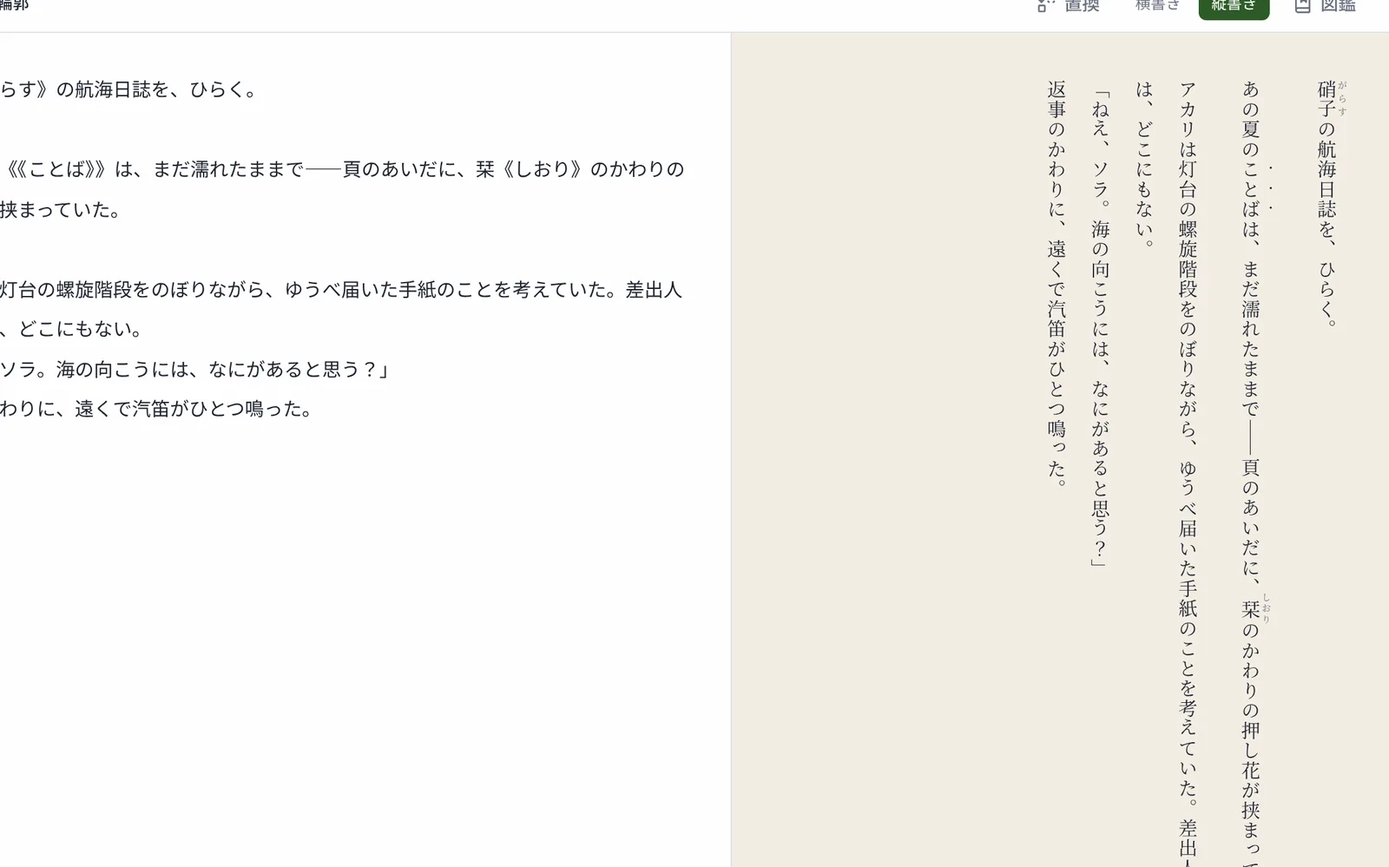
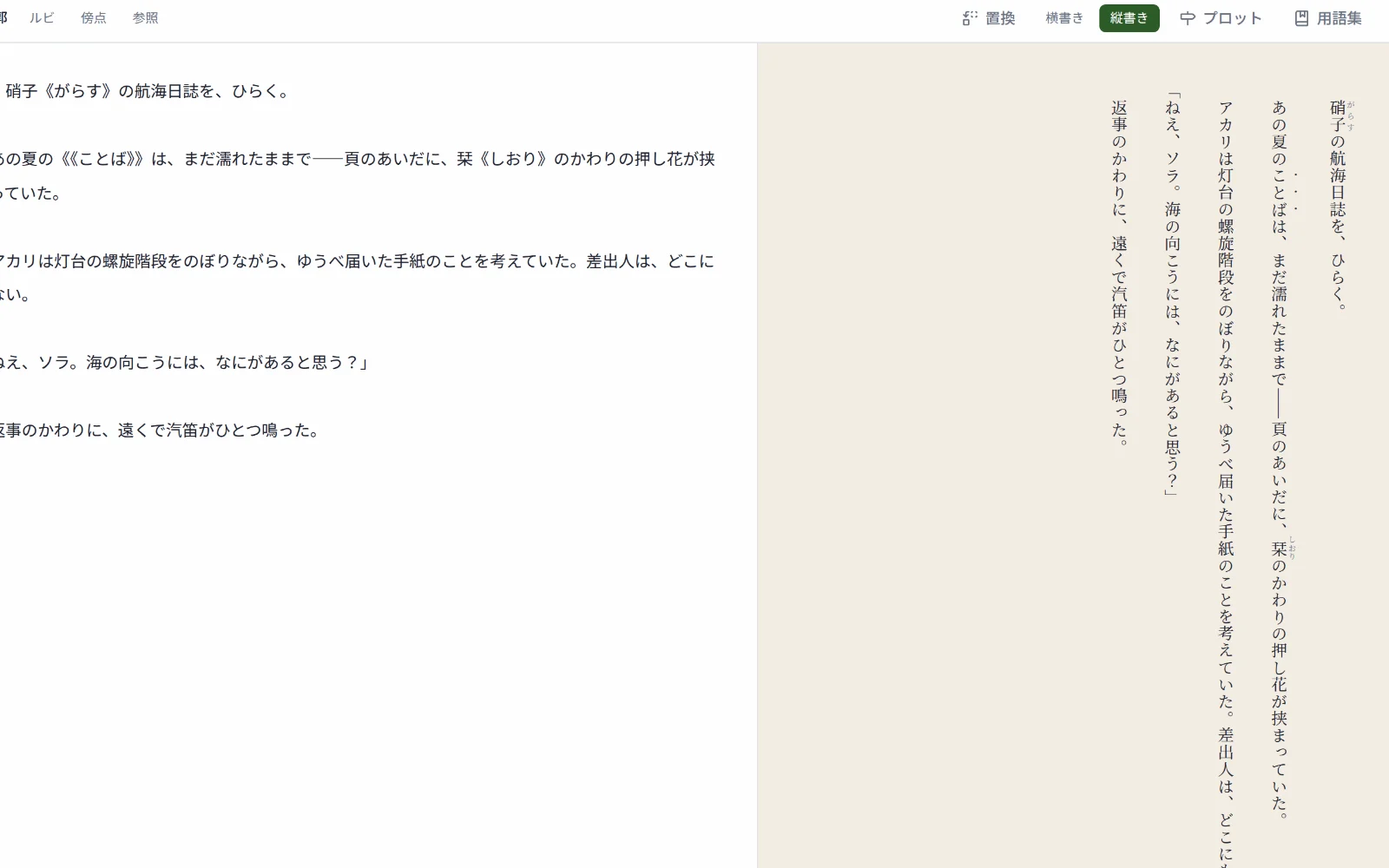
feat(plan,lp): 構想の道具を無料アカウント登録で解禁し、LP をそれに合わせる
プロット・世界観設定・アウトライン・相関図・マインドマップは純ローカルで完結し、
サーバ資源を使わない。課金の線を引く理由がないので無料アカウント登録で解禁し、
有料の線は「保全」——端末間の自動同期・クラウドバックアップ／復元・MCP——に引き直す。
未サインイン（guest）で出さないのは、作品が端末にしか無い状態で構想まで積み上げると
失ったときの損害が大きいため。

- Root: canUseStructure を canUseCreativeTools（free または member）で決める
- 料金画面・ヘルプ FAQ から「構造ツールは有料」の記述を落とす
- ローカル書き出し／復元がプロット（ビート・秘密・世界観設定）まで運ぶことを
  backup-service のテストで固定（実装は既に対象に含んでいた）
- LP: 第三章「組み立てる」を新設してプロットを紹介し、以降の章を繰り下げ。
  構造ツールの塊をクラウド（有料）節から外し、残る三本を画像なしの三枚組へ。
  プラン表は構想の道具を2行に分けて○＋「要・無料登録」に。
- LP のスクリーンショットを撮り直し（用語集の「図鑑」表記が残っていた）、
  プロット画面の shots/plot.webp を追加

Claude-Session: https://claude.ai/code/session_01Turq2UBLGYSXR6z6NT2Tq9

diff --git a/public/lp/index.html b/public/lp/index.html
@@ -279,7 +279,7 @@
         <div style="flex:none;writing-mode:vertical-rl;font-family:var(--font-display);font-size:24px;letter-spacing:0.22em;line-height:1.6;color:var(--forest-800)"><span style="color:var(--wheat-500);font-size:12px">◆</span>　書いたそばから、本の姿。</div>
       </div>
       <div data-media style="background:var(--surface-card);border:1px solid var(--border-subtle);border-radius:12px;padding:10px;box-shadow:0 2px 12px rgba(31,36,48,0.05)">
-        <div style="width:100%;aspect-ratio:16/10"><img class="slot-img" src="shots/editor.webp" width="1600" height="999" loading="lazy" decoding="async" alt="執筆画面：左にいつもの横書き原稿、右にルビ・傍点まで組まれた縦書きプレビュー"></div>
+        <div style="width:100%;aspect-ratio:16/10"><img class="slot-img" src="shots/editor.webp" width="1600" height="1000" loading="lazy" decoding="async" alt="執筆画面：左にいつもの横書き原稿、右にルビ・傍点まで組まれた縦書きプレビュー"></div>
       </div>
     </div>
 
@@ -299,16 +299,38 @@
         </div>
       </div>
       <div data-media style="order:1;background:var(--surface-card);border:1px solid var(--border-subtle);border-radius:12px;padding:10px;box-shadow:0 2px 12px rgba(31,36,48,0.05)">
-        <div style="width:100%;aspect-ratio:16/10"><img class="slot-img" src="shots/glossary.webp" width="1600" height="1000" loading="lazy" decoding="async" alt="用語集画面：人物・場所・道具をカテゴリタブとカードで整理"></div>
+        <div style="width:100%;aspect-ratio:16/10"><img class="slot-img" src="shots/glossary.webp" width="1600" height="1000" loading="lazy" decoding="async" alt="用語集画面：人物・場所・アイテムをカテゴリタブとカードで整理し、作品ごとの事典にする"></div>
       </div>
     </div>
 
-    <!-- 第三章　続ける -->
+    <!-- 第三章　組み立てる -->
     <div data-reveal class="feature-row">
       <div data-text style="display:flex;gap:32px">
+        <div style="display:flex;flex-direction:column;gap:20px">
+          <div style="display:flex;align-items:center;gap:14px;font-size:13px;letter-spacing:0.3em;color:var(--wheat-700)">第三章　組み立てる<span style="width:56px;height:1px;background:var(--wheat-300)"></span></div>
+          <h3 style="margin:0;font-family:var(--font-display);font-weight:600;font-size:28px;letter-spacing:0.06em;color:var(--text-heading)">話の骨は、書く前に組める。</h3>
+          <p style="margin:0;font-size:15px;line-height:2;letter-spacing:0.03em;color:var(--text-body);text-wrap:pretty">物語の出来事を「ビート」のカードにして、幕へ並べる。型から始めれば、幕とガイド付きのビートが最初から用意されています。仕込んだ伏線は回収と対にして、作品の決めごとは「世界観設定」へ。読者に見せる用語集とは別の、作者だけの控えです。</p>
+          <div style="display:flex;flex-direction:column;gap:10px">
+            <div style="display:flex;gap:10px;font-size:14px;line-height:1.7;color:var(--text-body)"><span style="color:var(--forest-600);font-weight:700">✓</span><span>三幕構成・起承転結・序破急などの型から始められる（白紙も可）</span></div>
+            <div style="display:flex;gap:10px;font-size:14px;line-height:1.7;color:var(--text-body)"><span style="color:var(--forest-600);font-weight:700">✓</span><span>伏線と秘密は、仕込みと回収を対にして残せる</span></div>
+            <div style="display:flex;gap:10px;font-size:14px;line-height:1.7;color:var(--text-body)"><span style="color:var(--forest-600);font-weight:700">✓</span><span>世界観設定は作者だけの控え——読者に公開されることはありません</span></div>
+            <div style="display:flex;gap:10px;font-size:14px;line-height:1.7;color:var(--text-body)"><span style="color:var(--forest-600);font-weight:700">✓</span><span>アウトライン・相関図・マインドマップで、流れと関係を図にできる</span></div>
+          </div>
+          <p style="margin:0;font-size:12.5px;line-height:1.9;letter-spacing:0.02em;color:var(--text-muted)">構想の道具は、無料のアカウント登録でお使いいただけます（登録だけで課金はありません）。</p>
+        </div>
+        <div style="flex:none;writing-mode:vertical-rl;font-family:var(--font-display);font-size:24px;letter-spacing:0.22em;line-height:1.6;color:var(--forest-800)"><span style="color:var(--wheat-500);font-size:12px">◆</span>　まず、骨を組む。</div>
+      </div>
+      <div data-media style="background:var(--surface-card);border:1px solid var(--border-subtle);border-radius:12px;padding:10px;box-shadow:0 2px 12px rgba(31,36,48,0.05)">
+        <div style="width:100%;aspect-ratio:16/10"><img class="slot-img" src="shots/plot.webp" width="1600" height="1000" loading="lazy" decoding="async" alt="プロット画面：幕ごとに並んだビートのカードと、選んだビートの詳細パネル。上部に世界観設定・ビートシート・グリッド・伏線と秘密のタブ"></div>
+      </div>
+    </div>
+
+    <!-- 第四章　続ける -->
+    <div data-reveal class="feature-row">
+      <div data-text style="order:2;display:flex;gap:32px">
         <div style="flex:none;writing-mode:vertical-rl;font-family:var(--font-display);font-size:24px;letter-spacing:0.22em;line-height:1.6;color:var(--forest-800)"><span style="color:var(--wheat-500);font-size:12px">◆</span>　書いた日々が、緑になる。</div>
         <div style="display:flex;flex-direction:column;gap:20px">
-          <div style="display:flex;align-items:center;gap:14px;font-size:13px;letter-spacing:0.3em;color:var(--wheat-700)">第三章　続ける<span style="width:56px;height:1px;background:var(--wheat-300)"></span></div>
+          <div style="display:flex;align-items:center;gap:14px;font-size:13px;letter-spacing:0.3em;color:var(--wheat-700)">第四章　続ける<span style="width:56px;height:1px;background:var(--wheat-300)"></span></div>
           <h3 style="margin:0;font-family:var(--font-display);font-weight:600;font-size:28px;letter-spacing:0.06em;color:var(--text-heading)">続けることを、道具が支える。</h3>
           <p style="margin:0;font-size:15px;line-height:2;letter-spacing:0.03em;color:var(--text-body);text-wrap:pretty">書いた日はカレンダーが緑に色づいて、続けるほど草が生えるように一年が茂っていきます。原稿は自動保存で、保存のたびに版履歴が残るから、昨日の自分にいつでも戻れます。続けることが、いちばんの執筆術だから。</p>
           <div style="display:flex;flex-direction:column;gap:10px">
@@ -317,16 +339,16 @@
           </div>
         </div>
       </div>
-      <div data-media style="background:var(--surface-card);border:1px solid var(--border-subtle);border-radius:12px;padding:10px;box-shadow:0 2px 12px rgba(31,36,48,0.05)">
+      <div data-media style="order:1;background:var(--surface-card);border:1px solid var(--border-subtle);border-radius:12px;padding:10px;box-shadow:0 2px 12px rgba(31,36,48,0.05)">
         <div style="width:100%;aspect-ratio:16/10"><img class="slot-img" src="shots/activity.webp" width="1600" height="1000" loading="lazy" decoding="async" alt="執筆の記録：年間ヒートマップと連続日数・累計文字数"></div>
       </div>
     </div>
 
-    <!-- 第四章　届ける -->
+    <!-- 第五章　届ける -->
     <div data-reveal class="feature-row">
-      <div data-text style="order:2;display:flex;gap:32px">
+      <div data-text style="display:flex;gap:32px">
         <div style="display:flex;flex-direction:column;gap:20px">
-          <div style="display:flex;align-items:center;gap:14px;font-size:13px;letter-spacing:0.3em;color:var(--wheat-700)">第四章　届ける<span style="width:56px;height:1px;background:var(--wheat-300)"></span></div>
+          <div style="display:flex;align-items:center;gap:14px;font-size:13px;letter-spacing:0.3em;color:var(--wheat-700)">第五章　届ける<span style="width:56px;height:1px;background:var(--wheat-300)"></span></div>
           <h3 style="margin:0;font-family:var(--font-display);font-weight:600;font-size:28px;letter-spacing:0.06em;color:var(--text-heading)">投稿サイトにも、電子書籍にも。</h3>
           <p style="margin:0;font-size:15px;line-height:2;letter-spacing:0.03em;color:var(--text-body);text-wrap:pretty">書き上がったら、そのまま世界へ。縦書き EPUB にも、「小説家になろう」「カクヨム」の記法にも、ルビ・傍点ごと自動変換して書き出せます。貼り付けるだけで、今日の分から投稿できます。</p>
           <div style="display:flex;flex-direction:column;gap:10px">
@@ -337,7 +359,7 @@
         </div>
         <div style="flex:none;writing-mode:vertical-rl;font-family:var(--font-display);font-size:24px;letter-spacing:0.22em;line-height:1.6;color:var(--forest-800)"><span style="color:var(--wheat-500);font-size:12px">◆</span>　物語を、世界へ。</div>
       </div>
-      <div data-media style="order:1;background:var(--surface-card);border:1px solid var(--border-subtle);border-radius:12px;padding:10px;box-shadow:0 2px 12px rgba(31,36,48,0.05)">
+      <div data-media style="background:var(--surface-card);border:1px solid var(--border-subtle);border-radius:12px;padding:10px;box-shadow:0 2px 12px rgba(31,36,48,0.05)">
         <div style="width:100%;aspect-ratio:16/10"><img class="slot-img" src="shots/export.webp" width="1568" height="980" loading="lazy" decoding="async" alt="書き出しダイアログ：EPUB・Web投稿形式・ZIP・AIに渡すから選べる"></div>
       </div>
     </div>
@@ -369,30 +391,20 @@
       <h2 style="margin:0;font-family:var(--font-display);font-weight:600;font-size:clamp(30px,3vw,40px);letter-spacing:0.08em;color:var(--text-heading)">もっと深く使うなら、クラウド。</h2>
       <p style="margin:0;font-size:15px;letter-spacing:0.06em;color:var(--text-muted)">ここから先は、有料のクラウド版の機能です。月額 ¥500、年額 ¥4,800（月あたり400円・約2か月分お得）。初回は 30 日間の無料トライアル付き——期間中に解約すれば料金はかかりません。</p>
     </div>
-    <div data-reveal data-reveal-delay="120" class="feature-row" style="gap:56px">
-      <div data-media style="background:var(--surface-card);border:1px solid var(--border-subtle);border-radius:12px;padding:10px;box-shadow:0 2px 12px rgba(31,36,48,0.05)">
-        <div style="width:100%;aspect-ratio:16/10"><img class="slot-img" src="shots/chart.webp" width="1600" height="1000" loading="lazy" decoding="async" alt="相関図画面：用語集のキャラをノードにして、関係に名前をつけて線で結ぶ"></div>
+    <div data-reveal data-reveal-delay="120" class="cards-3">
+      <div style="display:flex;flex-direction:column;gap:12px;background:var(--surface-card);border:1px solid var(--border-subtle);border-radius:12px;padding:28px 26px;box-shadow:0 2px 12px rgba(31,36,48,0.05)">
+        <div style="display:flex;align-items:baseline;gap:10px"><span style="color:var(--wheat-500);font-size:11px">◆</span><h3 style="margin:0;font-family:var(--font-display);font-weight:600;font-size:20px;letter-spacing:0.06em;color:var(--text-heading)">端末間の自動同期</h3></div>
+        <p style="margin:0;font-size:14px;line-height:2;letter-spacing:0.03em;color:var(--text-body);text-wrap:pretty">同じアカウントでログインすれば、原稿・用語集・プロット・構想メモが端末のあいだで自動的にそろいます。書き終えて別の端末を開けば、そこに続きがある。書き出しも取り込みも、もういりません。</p>
       </div>
-      <div data-text style="display:flex;flex-direction:column;gap:28px">
-        <div style="display:flex;flex-direction:column;gap:10px">
-          <div style="display:flex;align-items:center;gap:10px"><span style="color:var(--wheat-500);font-size:11px">◆</span><h3 style="margin:0;font-family:var(--font-display);font-weight:600;font-size:21px;letter-spacing:0.06em;color:var(--text-heading)">アウトライン・相関図・マインドマップ</h3></div>
-          <p style="margin:0;font-size:14px;line-height:2;letter-spacing:0.03em;color:var(--text-body);text-wrap:pretty">人物の関係、話の流れ、思いつきのメモ。頭の中で混ざりがちなものを、図にして見えるようにする道具です。書きながら整理するための補助として。どれも本文とつながっています。</p>
-        </div>
-        <div style="display:flex;flex-direction:column;gap:10px">
-          <div style="display:flex;align-items:center;gap:10px"><span style="color:var(--wheat-500);font-size:11px">◆</span><h3 style="margin:0;font-family:var(--font-display);font-weight:600;font-size:21px;letter-spacing:0.06em;color:var(--text-heading)">端末間の自動同期</h3></div>
-          <p style="margin:0;font-size:14px;line-height:2;letter-spacing:0.03em;color:var(--text-body);text-wrap:pretty">同じアカウントでログインすれば、原稿・用語集・構想メモが端末のあいだで自動的にそろいます。書き終えて別の端末を開けば、そこに続きがある。書き出しも取り込みも、もういりません。</p>
-        </div>
-        <div style="display:flex;flex-direction:column;gap:10px">
-          <div style="display:flex;align-items:center;gap:10px"><span style="color:var(--wheat-500);font-size:11px">◆</span><h3 style="margin:0;font-family:var(--font-display);font-weight:600;font-size:21px;letter-spacing:0.06em;color:var(--text-heading)">クラウドバックアップ＆復元</h3></div>
-          <p style="margin:0;font-size:14px;line-height:2;letter-spacing:0.03em;color:var(--text-body);text-wrap:pretty">全データを暗号化してクラウドに自動保存。端末が壊れても、新しい端末で復元して、続きから書けます。</p>
-        </div>
-        <div style="display:flex;flex-direction:column;gap:10px">
-          <div style="display:flex;align-items:center;gap:10px"><span style="color:var(--wheat-500);font-size:11px">◆</span><h3 style="margin:0;font-family:var(--font-display);font-weight:600;font-size:21px;letter-spacing:0.06em;color:var(--text-heading)">AI と読み書き（MCP 連携）</h3></div>
-          <p style="margin:0;font-size:14px;line-height:2;letter-spacing:0.03em;color:var(--text-body);text-wrap:pretty">AI チャットに原稿を読ませて、誤字脱字の校正や、最初の一読者としての感想を。AI が直した原稿を、そのまま書き戻すこともできます。動作確認済みの AI は現在 Claude と Genspark のみです。</p>
-        </div>
+      <div style="display:flex;flex-direction:column;gap:12px;background:var(--surface-card);border:1px solid var(--border-subtle);border-radius:12px;padding:28px 26px;box-shadow:0 2px 12px rgba(31,36,48,0.05)">
+        <div style="display:flex;align-items:baseline;gap:10px"><span style="color:var(--wheat-500);font-size:11px">◆</span><h3 style="margin:0;font-family:var(--font-display);font-weight:600;font-size:20px;letter-spacing:0.06em;color:var(--text-heading)">クラウドバックアップ＆復元</h3></div>
+        <p style="margin:0;font-size:14px;line-height:2;letter-spacing:0.03em;color:var(--text-body);text-wrap:pretty">全データを暗号化してクラウドに自動保存。端末が壊れても、新しい端末で復元して、続きから書けます。</p>
+      </div>
+      <div style="display:flex;flex-direction:column;gap:12px;background:var(--surface-card);border:1px solid var(--border-subtle);border-radius:12px;padding:28px 26px;box-shadow:0 2px 12px rgba(31,36,48,0.05)">
+        <div style="display:flex;align-items:baseline;gap:10px"><span style="color:var(--wheat-500);font-size:11px">◆</span><h3 style="margin:0;font-family:var(--font-display);font-weight:600;font-size:20px;letter-spacing:0.06em;color:var(--text-heading)">AI と読み書き（MCP 連携）</h3></div>
+        <p style="margin:0;font-size:14px;line-height:2;letter-spacing:0.03em;color:var(--text-body);text-wrap:pretty">AI チャットに原稿を読ませて、誤字脱字の校正や、最初の一読者としての感想を。AI が直した原稿を、そのまま書き戻すこともできます。世界観設定を先に読ませてあるので、作品の決めごとを踏まえた返事が返ります。動作確認済みの AI は現在 Claude と Genspark のみです。</p>
       </div>
     </div>
-  </div>
 </section>
 
 <!-- ================= 机とポケット（PCで書き、スマホで触れる） ================= -->
@@ -453,7 +465,7 @@
     <div data-reveal style="text-align:center;display:flex;flex-direction:column;gap:16px">
       <div style="font-family:var(--font-mono);font-size:12px;letter-spacing:0.32em;color:var(--wheat-600)">PRICING</div>
       <h2 style="margin:0;font-family:var(--font-display);font-weight:600;font-size:clamp(30px,3vw,40px);letter-spacing:0.08em;color:var(--text-heading)">料金プラン</h2>
-      <p style="margin:0;font-size:15px;letter-spacing:0.06em;color:var(--text-muted)">基本の執筆機能はフリーのまま。クラウドは、必要になってからで十分です。</p>
+      <p style="margin:0;font-size:15px;letter-spacing:0.06em;color:var(--text-muted)">書く道具も、構想の道具もフリーのまま。クラウドは、必要になってからで十分です。</p>
     </div>
     <div data-reveal data-reveal-delay="120" class="price-scroll" style="width:100%;max-width:880px;background:var(--surface-card);border:1px solid var(--border-subtle);border-radius:12px;box-shadow:0 2px 12px rgba(31,36,48,0.04)">
       <div class="price-inner">
@@ -468,7 +480,8 @@
         <div class="price-row"><div style="font-size:14px;color:var(--text-body)">小説家になろう・カクヨム・EPUB 書き出し</div><div style="text-align:center;color:var(--forest-600);font-size:17px">○</div><div style="text-align:center;color:var(--forest-600);font-size:17px">○</div></div>
         <div class="price-row"><div style="font-size:14px;color:var(--text-body)">執筆の記録・一括置換</div><div style="text-align:center;color:var(--forest-600);font-size:17px">○</div><div style="text-align:center;color:var(--forest-600);font-size:17px">○</div></div>
         <div class="price-row"><div style="font-size:14px;color:var(--text-body)">ファイルへのバックアップ／取り込み</div><div style="text-align:center;color:var(--forest-600);font-size:17px">○</div><div style="text-align:center;color:var(--forest-600);font-size:17px">○</div></div>
-        <div class="price-row"><div style="font-size:14px;color:var(--text-body)">アウトライン・相関図・マインドマップ</div><div style="text-align:center;color:var(--text-faint);font-size:15px">×</div><div style="text-align:center;color:var(--forest-600);font-size:17px">○</div></div>
+        <div class="price-row"><div style="font-size:14px;color:var(--text-body)">プロット・世界観設定<div style="font-size:11.5px;color:var(--text-muted)">幕とビート・伏線と秘密・作品の決め事</div></div><div style="text-align:center"><div style="color:var(--forest-600);font-size:17px">○</div><div style="font-size:10.5px;color:var(--text-muted)">要・無料登録</div></div><div style="text-align:center;color:var(--forest-600);font-size:17px">○</div></div>
+        <div class="price-row"><div style="font-size:14px;color:var(--text-body)">アウトライン・相関図・マインドマップ</div><div style="text-align:center"><div style="color:var(--forest-600);font-size:17px">○</div><div style="font-size:10.5px;color:var(--text-muted)">要・無料登録</div></div><div style="text-align:center;color:var(--forest-600);font-size:17px">○</div></div>
         <div class="price-row"><div style="font-size:14px;color:var(--text-body)">端末間の自動同期（原稿・用語集・構想メモ）</div><div style="text-align:center;color:var(--text-faint);font-size:15px">×</div><div style="text-align:center;color:var(--forest-600);font-size:17px">○</div></div>
         <div class="price-row"><div style="font-size:14px;color:var(--text-body)">クラウドバックアップ＆復元（暗号化・全データ）</div><div style="text-align:center;color:var(--text-faint);font-size:15px">×</div><div style="text-align:center;color:var(--forest-600);font-size:17px">○</div></div>
         <div class="price-row"><div style="font-size:14px;color:var(--text-body)">AI に読み書きさせる（Claude・Genspark／MCP）</div><div style="text-align:center;color:var(--text-faint);font-size:15px">×</div><div style="text-align:center;color:var(--forest-600);font-size:17px">○</div></div>
@@ -491,7 +504,7 @@
     <div data-reveal data-reveal-delay="100" style="display:flex;flex-direction:column;gap:14px">
       <details style="background:var(--surface-card);border:1px solid var(--border-subtle);border-radius:10px;padding:0 24px">
         <summary style="display:flex;align-items:center;justify-content:space-between;gap:16px;padding:20px 0;font-size:15px;font-weight:700;color:var(--text-heading)">本当に無料ですか？<span data-plus style="color:var(--forest-600);font-size:20px;font-weight:400;transition:transform 0.2s">＋</span></summary>
-        <p style="margin:0;padding:0 0 20px;font-size:14px;line-height:2;color:var(--text-body)">はい。執筆・縦書きプレビュー・用語集・書き出しなど、一作を書き上げて投稿するまでに必要な機能はすべて無料で、期限もありません。相関図やクラウド同期など一部の機能だけ、有料のクラウド版で提供しています（クラウド版も初回は 30 日間無料で試せます）。</p>
+        <p style="margin:0;padding:0 0 20px;font-size:14px;line-height:2;color:var(--text-body)">はい。執筆・縦書きプレビュー・用語集・書き出しなど、一作を書き上げて投稿するまでに必要な機能はすべて無料で、期限もありません。プロット・世界観設定・アウトライン・相関図・マインドマップも、無料のアカウント登録だけで使えます。有料のクラウド版は、端末間の自動同期・クラウドバックアップ／復元・AI（MCP）連携の三つ（初回は 30 日間無料で試せます）。</p>
       </details>
       <details style="background:var(--surface-card);border:1px solid var(--border-subtle);border-radius:10px;padding:0 24px">
         <summary style="display:flex;align-items:center;justify-content:space-between;gap:16px;padding:20px 0;font-size:15px;font-weight:700;color:var(--text-heading)">原稿が消えてしまうことはありませんか？<span data-plus style="color:var(--forest-600);font-size:20px;font-weight:400;transition:transform 0.2s">＋</span></summary>
@@ -503,7 +516,7 @@
       </details>
       <details style="background:var(--surface-card);border:1px solid var(--border-subtle);border-radius:10px;padding:0 24px">
         <summary style="display:flex;align-items:center;justify-content:space-between;gap:16px;padding:20px 0;font-size:15px;font-weight:700;color:var(--text-heading)">話の流れや人物の関係も整理できますか？<span data-plus style="color:var(--forest-600);font-size:20px;font-weight:400;transition:transform 0.2s">＋</span></summary>
-        <p style="margin:0;padding:0 0 20px;font-size:14px;line-height:2;color:var(--text-body)">アウトライン・相関図・マインドマップの三つの道具があります（クラウド版）。どれも本文や用語集とつながっていて、構想がそのまま原稿に育ちます。無料版でも、ネタ帳で思いつきをためておけます。</p>
+        <p style="margin:0;padding:0 0 20px;font-size:14px;line-height:2;color:var(--text-body)">プロット（幕とビート・伏線と秘密・世界観設定）、アウトライン、相関図、マインドマップがあります。どれも無料のアカウント登録で使えて、本文や用語集とつながっているので、構想がそのまま原稿に育ちます。登録なしでも、ネタ帳で思いつきをためておけます。</p>
       </details>
       <details style="background:var(--surface-card);border:1px solid var(--border-subtle);border-radius:10px;padding:0 24px">
         <summary style="display:flex;align-items:center;justify-content:space-between;gap:16px;padding:20px 0;font-size:15px;font-weight:700;color:var(--text-heading)">AI 連携は原稿を学習に使われませんか？<span data-plus style="color:var(--forest-600);font-size:20px;font-weight:400;transition:transform 0.2s">＋</span></summary>

diff --git a/src/ui/Root.tsx b/src/ui/Root.tsx
@@ -83,7 +83,8 @@ export function Root({ store }: RootProps) {
     () => withSyncTouch(createDefaultIdeaRepository(), ['add', 'update', 'remove']),
     [],
   )
-  // 構造レイヤー（アウトライン／相関図／マインドマップ）は cloud 会員のみ利用。
+  // 構造レイヤー（アウトライン／相関図／マインドマップ）。純ローカルなので器は誰にも作るが、
+  // 画面へ出すかは canUseCreativeTools（無料アカウント登録で可）で決める。
   const structureRepo = useMemo(
     () =>
       withSyncTouch(createDefaultStructureRepository(), [
@@ -94,13 +95,24 @@ export function Root({ store }: RootProps) {
       ]),
     [],
   )
-  // プロット（幕×ビートの物語設計）も cloud 会員のみ。編集は Repository 直書きなので
+  // プロット（幕×ビートの物語設計・世界観設定）も同じ。編集は Repository 直書きなので
   // 構造レイヤーと同じく sync-touch を差し込んで push の契機を作る。
   const plotRepo = useMemo(
     () =>
       withSyncTouch(createDefaultPlotRepository(), ['create', 'save', 'remove', 'removeByWork']),
     [],
   )
+  /**
+   * 構想の道具（プロット・世界観設定・アウトライン・相関図・マインドマップ）を出すか。
+   *
+   * **無料アカウント登録で使える**（`free` も `member` も可）。これらは純ローカルで動き、
+   * サーバ資源を使わない＝課金の線を引く理由がない。課金の線は「保全」に引いてある
+   *（端末間の自動同期・クラウドバックアップ／復元・MCP）。
+   * 未サインイン（guest）で出さないのは、作品が端末にしか無い状態で構想まで積み上げると
+   * 失ったときの損害が大きいため。登録しておけば、あとからクラウドへ引き上げられる。
+   */
+  const canUseCreativeTools = status === 'free' || status === 'member'
+
   const [backupOpen, setBackupOpen] = useState(false)
   const [aiPullOpen, setAiPullOpen] = useState(false)
   const [mcpOpen, setMcpOpen] = useState(false)
@@ -295,7 +307,7 @@ export function Root({ store }: RootProps) {
           activityRepo={activityRepo}
           structureRepo={structureRepo}
           plotRepo={plotRepo}
-          canUseStructure={status === 'member'}
+          canUseStructure={canUseCreativeTools}
           ideaRepo={ideaRepo}
         />
       ) : (

diff --git a/src/ui/components/HelpPage/help-page.tsx b/src/ui/components/HelpPage/help-page.tsx
@@ -90,8 +90,12 @@ export function HelpPage() {
             件までで、古いものから消えます。
           </Faq>
           <Faq q="無料で使える範囲は？">
-            執筆・用語集・書き出し・端末内バックアップはすべて無料で使えます。端末間の自動同期・クラウドバックアップ・
-            AI 連携は有料会員向けの機能です。
+            執筆・用語集・書き出し・端末内バックアップ（ファイルへの書き出し／取り込み）は、
+            登録なしでも無料で使えます。
+            <strong>
+              プロット・世界観設定・アウトライン・相関図・マインドマップは、無料のアカウント登録で使えます
+            </strong>
+            。端末間の自動同期・クラウドバックアップ・AI 連携は有料会員向けの機能です。
           </Faq>
           <Faq q="退会・解約したいです">
             有料会員はアカウントメニューから解約できます。解約後も、この端末に保存された原稿はそのまま残ります。

diff --git a/src/ui/components/SideNav/side-nav.tsx b/src/ui/components/SideNav/side-nav.tsx
@@ -81,13 +81,13 @@ interface SideNavProps {
   onNavigateEpisodes?: () => void
   /** 用語集画面へ切替（作品オープン時のみ） */
   onNavigateGlossary?: () => void
-  /** プロット（幕×ビートの物語設計）へ切替（作品オープン＋cloud会員時のみ） */
+  /** プロット（幕×ビートの物語設計）へ切替（作品オープン＋アカウント登録時のみ） */
   onNavigatePlot?: () => void
-  /** アウトラインへ切替（作品オープン＋cloud会員時のみ） */
+  /** アウトラインへ切替（作品オープン＋アカウント登録時のみ） */
   onNavigateOutline?: () => void
-  /** マインドマップへ切替（作品オープン＋cloud会員時のみ） */
+  /** マインドマップへ切替（作品オープン＋アカウント登録時のみ） */
   onNavigateMindmap?: () => void
-  /** 相関図へ切替（作品オープン＋cloud会員時のみ） */
+  /** 相関図へ切替（作品オープン＋アカウント登録時のみ） */
   onNavigateChart?: () => void
   /** エディタ時の話サブリスト */
   episodes?: EpisodeItem[]

diff --git a/src/ui/App.tsx b/src/ui/App.tsx
@@ -71,11 +71,11 @@ interface AppProps {
   onNavigateHelp?: () => void
   /** 執筆活動の読み取り（ステータスバーの「今日 +N字」）。省略時は非表示。 */
   activityRepo?: ActivityRepository
-  /** 構造レイヤー（マインドマップ等）のリポジトリ。cloud 会員時のみ渡す。 */
+  /** 構造レイヤー（マインドマップ等）のリポジトリ。 */
   structureRepo?: StructureRepository
-  /** プロット（幕×ビートの物語設計）のリポジトリ。cloud 会員時のみ渡す。 */
+  /** プロット（幕×ビートの物語設計・世界観設定）のリポジトリ。 */
   plotRepo?: PlotRepository
-  /** cloud 会員か（構造ツールの表示・アクセス可否）。 */
+  /** 構想の道具（プロット・アウトライン・相関図・マインドマップ）を出すか＝無料アカウント登録で true。 */
   canUseStructure?: boolean
   /** ネタ帳（マインドマップの取り込み用）。 */
   ideaRepo?: IdeaRepository

diff --git a/src/ui/auth/cloud-pricing.tsx b/src/ui/auth/cloud-pricing.tsx
@@ -10,11 +10,12 @@ import { Button } from '@/ui/components/ui/button'
  * 会員状態の取得先は D1（/api/billing/status）、決済は Stripe 直課金。
  */
 
+// 構想の道具（プロット・アウトライン・相関図・マインドマップ）はここに載せない。
+// 無料アカウント登録で使えるので、有料の理由にならない。課金の線は「保全」にある。
 const FEATURES = [
-  'アウトライン・相関図・マインドマップ',
+  '複数端末で同じ原稿を同期',
   '全データ暗号化のクラウドバックアップ＆復元',
   'AI に読み書きさせる（Claude・Genspark／MCP）',
-  '複数端末で同じ原稿を同期',
 ]
 
 const PLANS: Array<{

diff --git a/docs/requirement/05-sync.md b/docs/requirement/05-sync.md
@@ -326,6 +326,7 @@
 | **D-SYNC2-NOSESSION**（2026-08） | **単一アクティブセッション（別端末押し出し）は復活させない**。複数端末の常時ログイン可（2026-07 改訂）を維持し、同時編集の衝突はセッションで排除するのではなく D-SYNC2-CAS / D-SYNC2-3WAY が検出して安全に解決する（押し出し UX の複雑さと「オフライン端末が押し出しを受け取れない」穴を再導入しないため）。 |
 | **D-SYNC2-ITEMS**（2026-08） | **構造レイヤー（アウトライン/相関図/マインドマップ）とネタ帳も Work と同じ CAS＋三方向差分で同期する**（D-SYNC2-SCOPE の拡張）。D1 `works` テーブル・既存 `/api/sync/*` API をそのまま流用し、行キーに種別プレフィックス付き id（`structure:<id>` / `idea:<id>`）を使う＝**新規 migration・サーバ改修なし**。ゴミ箱概念がないため trash 系の状態遷移は使わず、削除は**トゥームストーン直行**。競合の敗者は snapshot 機構が無い代わりに **`synclost:<syncId>`（1 世代）へ退避しトーストで通知**する（「黙って消えない」原則の維持）。執筆画面で開いている作品に紐づく構造の pull/purge は見送り（Work 本体と同じ扱い）。 |
 | **D-SYNC2-ACTIVITY-DB**（2026-08） | **執筆の記録（activity）は性質が異なるため別方式で同期する**。日別カウンタ（date/added/removed/saves）は原稿・PII を一切含まないため、R2 暗号化ブロブではなく **D1 `activity` テーブルに平文の行で保持**（migration `0006_activity_sync`）。同期は `POST /api/sync/activity`＝クライアントが全日分を送り、サーバが**日付ごと・フィールドごと max マージ**（UPSERT）して全量を返す。加算的データなので衝突が原理的に起きない＝LWW/CAS/base/409 不要。net は保存せず added−removed から導出。制約＝同一日に複数端末で書いた場合は合算ではなく大きい方が残る（過少方向・草/ストリーク用途で実害なし）。退会時の reaper は activity 行も削除する。**プライバシー**＝サーバに平文で置くのは日付と文字数カウンタのみで、原稿・タイトル・用語集・PII は含まれない。 |
+| **D-FREE-CREATIVE**（2026-08） | **構想の道具（プロット・世界観設定・アウトライン・相関図・マインドマップ）は無料アカウント登録で解禁する**（`free` も `member` も可）。これらは純ローカルで完結しサーバ資源を使わないため、課金の線を引く理由がない。有料の線は「保全」——端末間の自動同期・クラウドバックアップ／復元・MCP——に引き直す。未サインイン（`guest`）で出さないのは、作品が端末にしか無い状態で構想まで積み上げると失ったときの損害が大きいため（登録しておけば、あとからクラウドへ引き上げられる）。実装は `src/ui/Root.tsx` の `canUseCreativeTools`。 |
 
 ## 6. 旧・未決事項 → すべて §5 へ移動済み
 

diff --git a/docs/CODEMAP.md b/docs/CODEMAP.md
@@ -45,10 +45,12 @@ Cloudflare Pages Functions
 | クラウド同期の競合・差分ロジック | `src/core/sync/plan.ts`（純ロジック）→ `src/ui/sync/sync-service.ts`（配線） |
 | 同期 API の挙動 | `functions/api/sync/` |
 | 課金・会員判定 | `src/core/billing/` + `functions/api/billing/` + `functions/api/_lib/membership.ts` |
+| 無料／有料の線（どの機能をどの状態で出すか） | `src/ui/Root.tsx`（`canUseCreativeTools` ほか）+ `src/ui/auth/derive-status.ts` |
 | AI/MCP 連携（外部から原稿を編集） | `src/core/mcp-edit/index.ts` + `functions/api/_lib/mcp-server.ts` |
 | **UI 部品・ヘルパを新規に作りたい** | まず §3「共通部品カタログ」で在庫を確認する（重複作成の防止） |
 | 画面遷移・ルート追加 | `src/ui/Root.tsx` + `src/ui/hooks/use-hash-route.ts` |
 | DB スキーマ | `migrations/*.sql` + `wrangler.toml` |
+| ランディングページ（機能紹介・プラン表・スクリーンショット） | `public/lp/index.html` + `public/lp/shots/` |
 
 ---
 
@@ -130,7 +132,7 @@ Cloudflare Pages Functions
 - **執筆**: `EditorPane/`（textarea + 記法バー + `@` サジェスト + 置換パネル）, `PreviewPane/`, `HistoryPanel/`
 - **作品管理**: `Library/`（カード/リスト・作品メニュー）, `TrashDialog/`, `WorkMetaDialog/`, `TitlePromptDialog/`
 - **用語集**: `GlossaryView/`（一覧＋`glossary-detail-dialog.tsx`）, `GlossaryEntryForm/`, `GlossaryPeek/`
-- **構造ツール（有料・遅延ロード）**: `MindmapView/`, `CorrelationChartView/`, `OutlineView/`, `PlotView/`（`plot-view.tsx` ＋ 世界観設定タブ `world-view.tsx` ＋ 記法サジェスト付き入力欄 `commit-textarea.tsx`）, `PlotPeek/`, `StructureCanvas/`
+- **構想の道具（無料アカウント登録で解禁・遅延ロード）**: `MindmapView/`, `CorrelationChartView/`, `OutlineView/`, `PlotView/`（`plot-view.tsx` ＋ 世界観設定タブ `world-view.tsx` ＋ 記法サジェスト付き入力欄 `commit-textarea.tsx`）, `PlotPeek/`, `StructureCanvas/`
 - **入出力**: `ExportDialog/`, `ImportDialog/`, `BackupDialog/`, `CloudBackupDialog/`, `AiPullDialog/`
 - **同期/課金**: `SyncOnboarding/`, `SyncLostDialog/`, `RestoreGrace/`, `McpConnectDialog/`, `SaveStateIndicator/`, `BackupNudgeDialog/`
 - **その他**: `ActivityPage/`, `IdeaboxPage/`, `PublishPage/`, `SettingsPage/`, `HelpPage/`, `ProfileDialog/`, `FirstRunDialog/`
